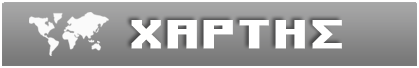
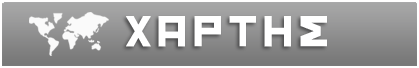
new cockpit and new text handling

Changed region(s): [[0.2792, 0.2353, 0.8377, 0.7353]]

diff --git a/core/src/org/scify/moonwalker/app/ui/actors/CockpitActor2.java b/core/src/org/scify/moonwalker/app/ui/actors/CockpitActor2.java
@@ -64,33 +64,15 @@ public class CockpitActor2 extends TableActor implements Updateable {
 
         //Top Left Pad Location
         currentLocationCell = drawTopLeftPad(screenWidth, screenHeight);
-
         //Mid empty cell
-        //add().width(0.55f * screenWidth).height(0.56f * screenHeight);
-        //add().width(0.55f * screenWidth).height(0.56f * screenHeight);
-        add().width(0.55f * screenWidth).height(0.56f * screenHeight);
-
+        add().width(0.55f * screenWidth).height(0.57f * screenHeight);
         //Top Right Pad DaysToGo
         remainingDestinationValueCell = drawTopRightPad(screenWidth, screenHeight);
+
         row();
 
         //Central
-        //add(navigateButton).width(convertWidth(navigateButton.getWidth())).height(convertHeight(navigateButton.getHeight())).align(Align.center).padTop(0.1f * screenHeight);
-
-        /*Table centralTable = new Table();
-        centralTable.defaults();
-        centralTable.align(Align.top);
-        centralTable.add(contactButton).width(convertWidth(contactButton.getWidth())).height(convertHeight(contactButton.getHeight())).padRight(0.02f * screenWidth);
-        centralTable.add(spaceshipPartsButton).width(convertWidth(spaceshipPartsButton.getWidth())).height(convertHeight(spaceshipPartsButton.getHeight()));
-        centralTable.row();
-        float distanceBetweenRows = convertHeight(contactButton.getHeight());
-        centralTable.add().height(distanceBetweenRows);
-        centralTable.row();
-        centralTable.add(chargeEpisodeButton).width(convertWidth(chargeEpisodeButton.getWidth())).height(convertHeight(chargeEpisodeButton.getHeight())).padRight(0.02f * screenWidth);
-        centralTable.add(mapButton).width(convertWidth(mapButton.getWidth())).height(convertHeight(mapButton.getHeight()));
-        add(centralTable).height(0.3f * screenHeight);
-
-        add(launchButton).width(convertWidth(launchButton.getWidth())).height(convertHeight(launchButton.getHeight())).align(Align.center).padTop(0.08f * screenHeight).padRight(0.04f * screenWidth);*/
+        drawCentral(screenWidth, screenHeight);
 
         //debug();
     }
@@ -103,9 +85,9 @@ public class CockpitActor2 extends TableActor implements Updateable {
         image.setAlign(Align.center);
         stack.addActor(image);
         //Label label = new Label(renderable.getPositionValue(), getSkin());
-        Label label = new Label("Λονδίνο", getSkin());
+        Label label = new Label("ΛΟΝΔΙΝΟ", getSkin());
         Label.LabelStyle ls = new Label.LabelStyle();
-        ThemeController themeController = new ThemeController();
+        ThemeController themeController = new ThemeController(20, "controls");
         ls.font = themeController.getFont();
         //ls.font.getData().setScale(2, 2);
         ls.fontColor = Color.valueOf("2f312c");
@@ -116,7 +98,7 @@ public class CockpitActor2 extends TableActor implements Updateable {
         container.padLeft(screenWidth * 0.05f);
         stack.add(container);
         stack.rotateBy(4);
-        return  add(stack).top().left().width(convertWidth(texture.getWidth())).height(convertHeight(texture.getHeight()));
+        return add(stack).top().left().width(convertWidth(texture.getWidth())).height(convertHeight(texture.getHeight()));
     }
 
     protected Cell drawTopRightPad(float screenWidth, float screenHeight) {
@@ -124,14 +106,11 @@ public class CockpitActor2 extends TableActor implements Updateable {
         stack.setTransform(true);
         Texture texture = imgUrlToTexture(renderable.DAYS_LEFT_IMG_PATH);
         Image image = new Image(new TextureRegionDrawable(new TextureRegion(texture)));
-        //image.setAlign(Align.center);
         stack.add(image);
         Label label = new Label(renderable.getDaysLeftValue(), getSkin());
         Label.LabelStyle ls = new Label.LabelStyle();
-        ThemeController themeController = new ThemeController();
+        ThemeController themeController = new ThemeController(25, "controls");
         ls.font = themeController.getFont();
-        //ls.font.getData().setScale(themeController.getFontScale(screenWidth, screenHeight));
-        //ls.font.getData().setScale(2);
         ls.fontColor = Color.valueOf("912d25");
         label.setStyle(ls);
         Container container = new Container(label);
@@ -141,10 +120,27 @@ public class CockpitActor2 extends TableActor implements Updateable {
 
         stack.add(container);
         Cell ret = add(stack).top().right().width(convertWidth(texture.getWidth())).height(convertHeight(texture.getHeight()));
-        debug();
         return ret;
     }
 
+    protected void drawCentral(float screenWidth, float screenHeight) {
+        add(navigateButton).width(convertWidth(navigateButton.getWidth())).height(convertHeight(navigateButton.getHeight())).align(Align.bottom);
+
+        Table centralTable = new Table();
+        centralTable.defaults();
+        centralTable.align(Align.top);
+        centralTable.add(contactButton).width(convertWidth(contactButton.getWidth())).height(convertHeight(contactButton.getHeight())).padRight(0.02f * screenWidth);
+        centralTable.add(spaceshipPartsButton).width(convertWidth(spaceshipPartsButton.getWidth())).height(convertHeight(spaceshipPartsButton.getHeight()));
+        centralTable.row();
+        float distanceBetweenRows = convertHeight(contactButton.getHeight()* 0.8f);
+        centralTable.add().height(distanceBetweenRows);
+        centralTable.row();
+        centralTable.add(chargeEpisodeButton).width(convertWidth(chargeEpisodeButton.getWidth())).height(convertHeight(chargeEpisodeButton.getHeight())).padRight(0.02f * screenWidth);
+        centralTable.add(mapButton).width(convertWidth(mapButton.getWidth())).height(convertHeight(mapButton.getHeight()));
+        add(centralTable).left().height(0.24f * screenHeight).padLeft(0.03f * screenWidth);
+
+        add(launchButton).width(convertWidth(launchButton.getWidth())).height(convertHeight(launchButton.getHeight())).align(Align.bottom).padRight(0.04f * screenWidth);
+    }
 
     public Table createInfoSubTable() {
         infoAndActionsTable = new Table(getSkin());

diff --git a/core/src/org/scify/moonwalker/app/ui/ThemeController.java b/core/src/org/scify/moonwalker/app/ui/ThemeController.java
@@ -17,22 +17,42 @@ public class ThemeController {
     private ResourceLocator resourceLocator;
     private AppInfo appInfo;
 
+    public ThemeController(int fontSize, String fontId) {
+        this.resourceLocator = new ResourceLocator();
+        this.appInfo = AppInfo.getInstance();
+        initFontAndSkin(fontSize, fontId);
+    }
+
+    public ThemeController(int fontSize) {
+        this.resourceLocator = new ResourceLocator();
+        this.appInfo = AppInfo.getInstance();
+        initFontAndSkin(fontSize, "dialog");
+    }
+
     public ThemeController() {
         this.resourceLocator = new ResourceLocator();
         this.appInfo = AppInfo.getInstance();
-        initFontAndSkin();
+        initFontAndSkin(20, "dialog");
     }
 
-    protected void initFontAndSkin() {
+    protected void initFontAndSkin(int fontSize, String fontId) {
         FreeTypeFontGenerator.FreeTypeFontParameter parameter = new FreeTypeFontGenerator.FreeTypeFontParameter();
         parameter.characters=FreeTypeFontGenerator.DEFAULT_CHARS + "α  β  γ  δ  ε  ζ  η  θ  ι  κ  λ  μ  ν  ξ  ο  π  ρ  σ  τ  υ  ϕ  χ  ψ  ω ς Α  Β  Γ  Δ  Ε  Ζ  Η  Θ  Ι  Κ  Λ  Μ  Ν  Ξ  Ο  Π  Ρ  Σ  Τ  Υ  Φ  Χ  Ψ  Ω ά έ ή ί ό ύ ώ Ά Έ Ή Ί Ό Ύ Ώ";
         int width = appInfo.getScreenWidth();
-        parameter.size = (int) (appInfo.pixelsWithDensity(30) * (731.0f / appInfo.getScreenWidth() ));
-        /*parameter.magFilter = Texture.TextureFilter.Linear;
-        parameter.minFilter = Texture.TextureFilter.Linear;*/
-
+        float ratio = width /731f;
+        parameter.size = (int)(ratio * fontSize);
+        parameter.magFilter = Texture.TextureFilter.Linear;
+        parameter.minFilter = Texture.TextureFilter.Linear;
+        FreeTypeFontGenerator generator;
+        if (fontId.equals("dialog")) {
+            generator = new FreeTypeFontGenerator(Gdx.files.internal(resourceLocator.getFilePath("fonts/CYN_EdraMedium.otf")));
+        }else if (fontId.equals("controls")){
+            generator = new FreeTypeFontGenerator(Gdx.files.internal(resourceLocator.getFilePath("fonts/PVF_ClimaxTXT.otf")));
+        }else {
+            generator = new FreeTypeFontGenerator(Gdx.files.internal(resourceLocator.getFilePath("fonts/PVF_ClimaxTXT.otf")));
+        }
         //FreeTypeFontGenerator generator = new FreeTypeFontGenerator(Gdx.files.internal(resourceLocator.getFilePath("fonts/Anonymous_Pro.ttf")));
-        FreeTypeFontGenerator generator = new FreeTypeFontGenerator(Gdx.files.internal(resourceLocator.getFilePath("fonts/PVF_ClimaxTXT.otf")));
+        //FreeTypeFontGenerator
         font = generator.generateFont(parameter);
         font.getRegion().getTexture().setFilter(Texture.TextureFilter.Linear, Texture.TextureFilter.Linear);
         skin = new Skin();

diff --git a/core/src/org/scify/moonwalker/app/game/rules/episodes/CockpitEpisodeRules.java b/core/src/org/scify/moonwalker/app/game/rules/episodes/CockpitEpisodeRules.java
@@ -32,7 +32,7 @@ public class CockpitEpisodeRules extends BaseEpisodeRules {
         if (!isEpisodeStarted(currentState)) {
             locationController = new LocationController();
             super.episodeStartedEvents(currentState);
-            addEpisodeBackgroundImage(currentState, "img/space1.png");
+            addEpisodeBackgroundImage(currentState, "img/cockpit/generic_background.png");
             initializeAndAddCockpit(currentState);
         } else {
 
@@ -56,7 +56,6 @@ public class CockpitEpisodeRules extends BaseEpisodeRules {
                 appInfo.getScreenHeight(), "cockpit", "cockpit");
         setCockpitFieldValues();
         setCockpitButtons();
-        //cockpit.setImgPath("img/cockpit/cockpit_background.png");
         cockpit.setImgPath("img/cockpit/cockpit_background.png");
         currentState.addRenderable(cockpit);
     }

diff --git a/core/src/org/scify/moonwalker/app/helpers/AppInfo.java b/core/src/org/scify/moonwalker/app/helpers/AppInfo.java
@@ -28,12 +28,14 @@ public class AppInfo {
     }
 
     public float getAspectRatio() {
-        return (float)getScreenHeight()/(float) getScreenWidth();
+        return (float) getScreenHeight() / (float) getScreenWidth();
     }
 
     public void setScreenDensity(float screenDensity) {
         this.screenDensity = screenDensity;
     }
+
+    public float getScreenDensity() { return screenDensity; }
 
     public float pixelsWithDensity(float pixels) {
         return pixels * screenDensity;
